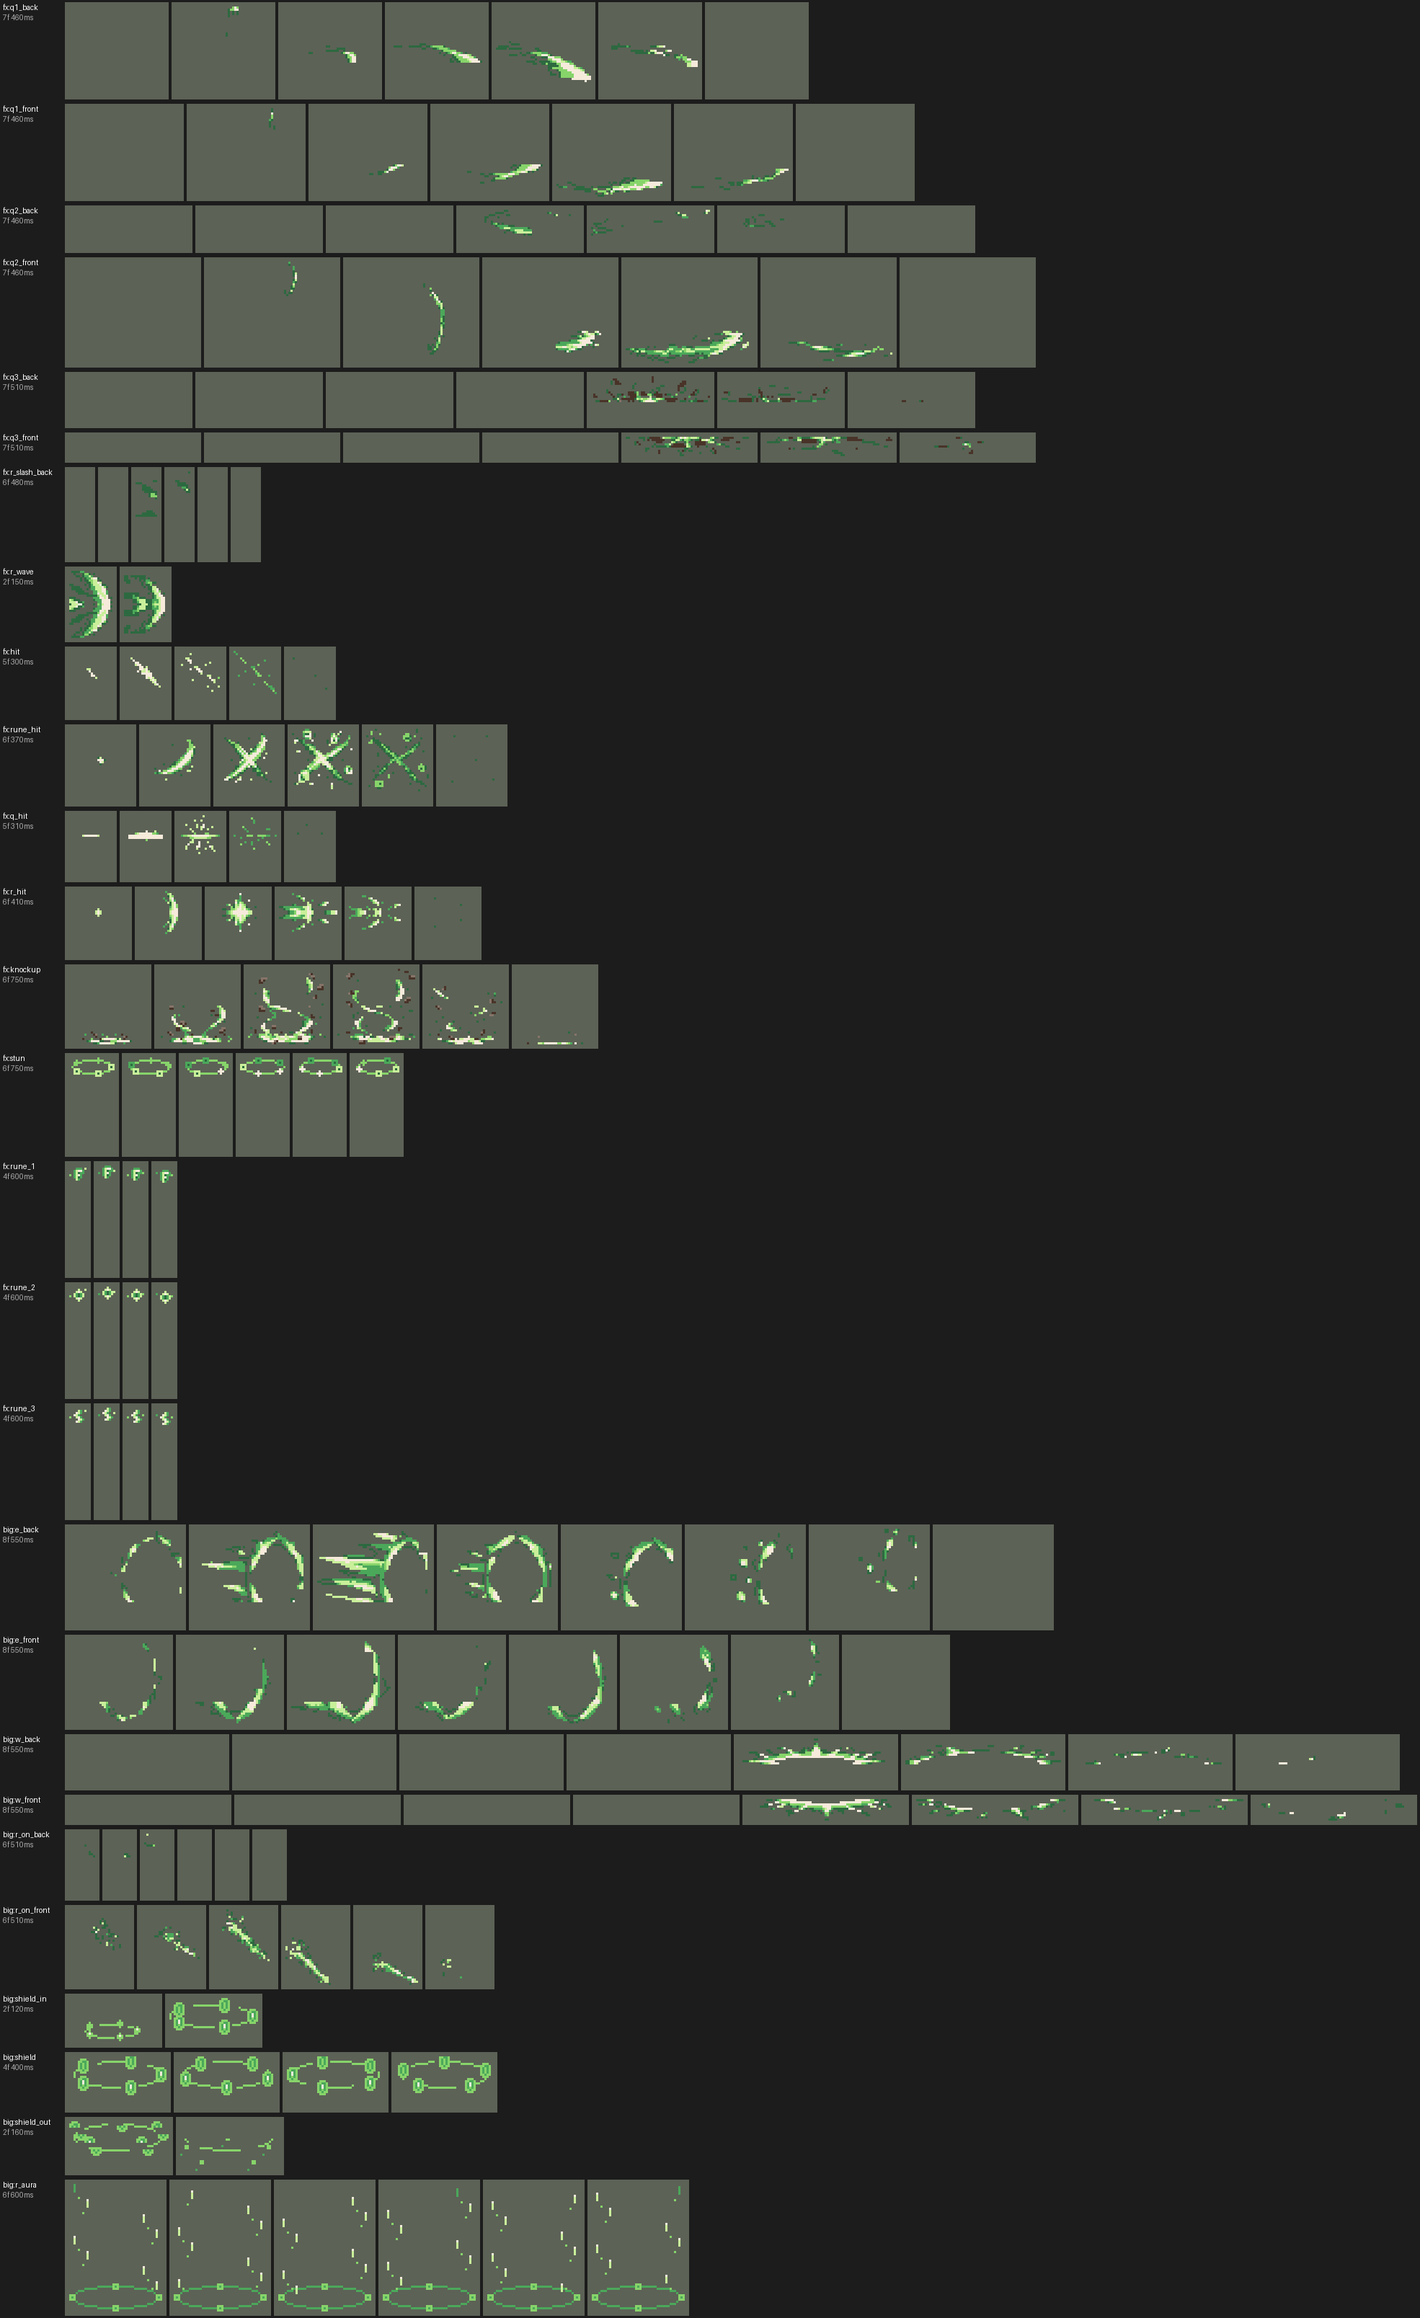
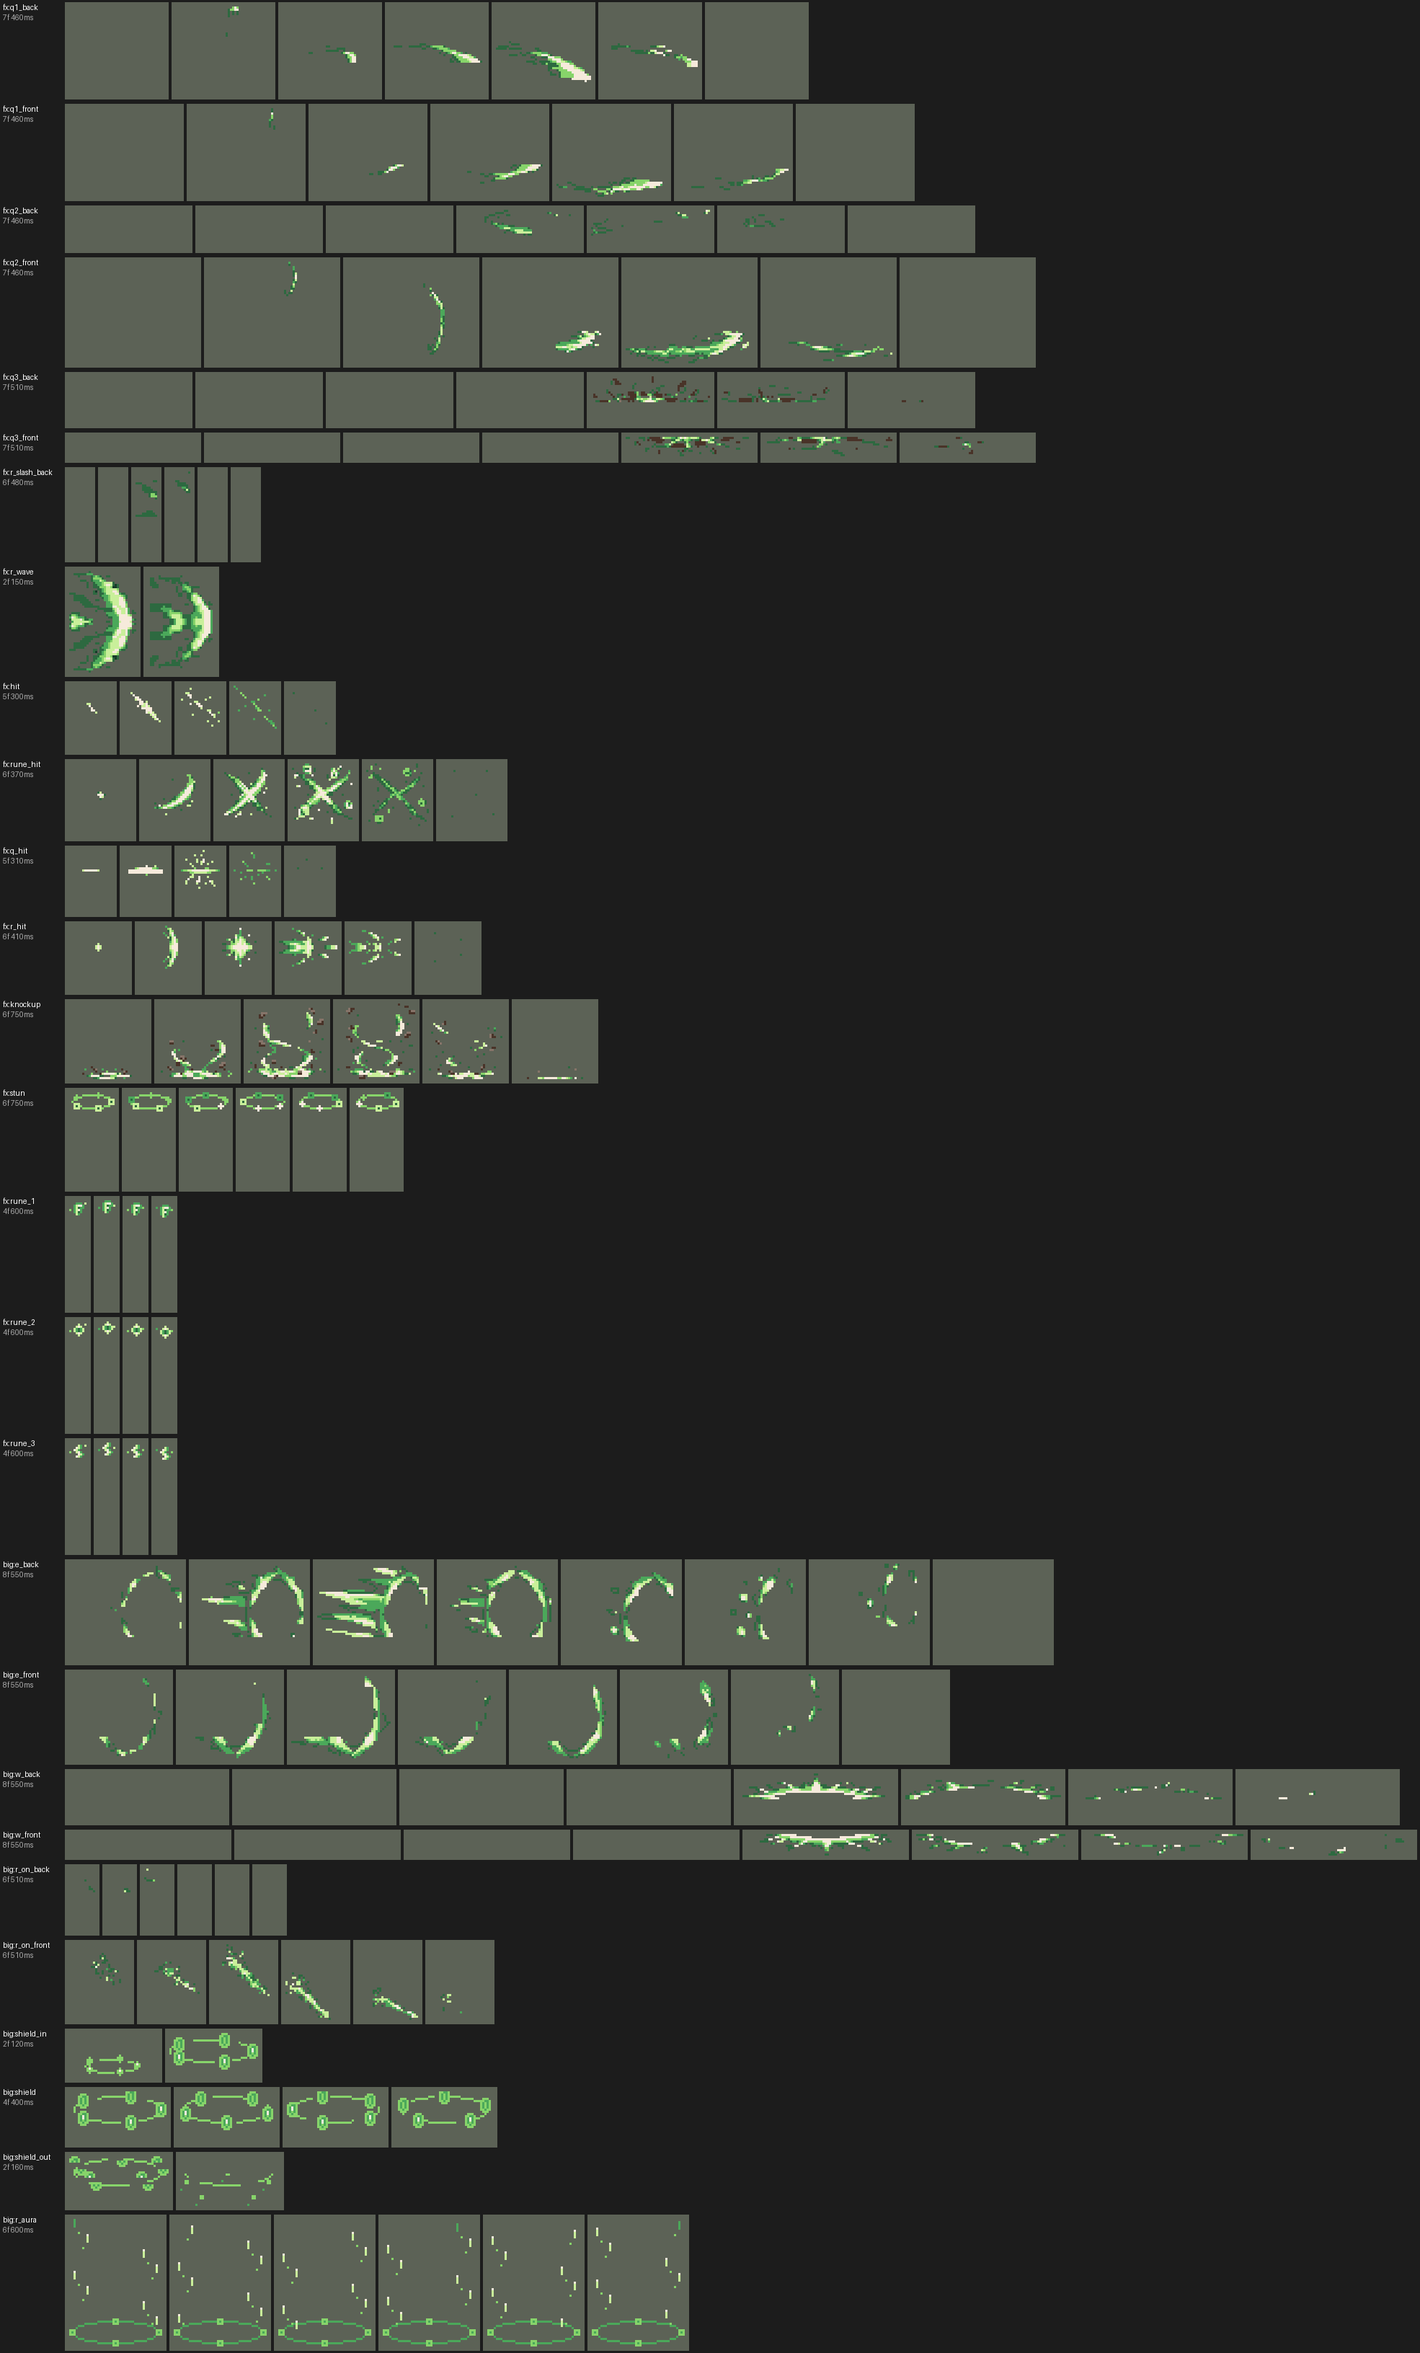
Riven: Wind Slash's flying wave 1.5 times bigger (the user's request)
"锐雯的大招效果最后放出去的波浪帮我做大一点" - the flying crescent,
r_wave, goes from 31 px tall to 46, about the band the projectile
really hits (its 16000 radius plus the target's own, some 24 px to
either side); damage and range are unchanged. import_riven.py enlarges
Codex's crescent by level sets: the six greens ordered dark to light,
the level field resized smoothly and cut back into the same greens, so
the bands keep clean edges and no pixel is stretched; the darkest green
that makes on the edge goes as in --raw, and the crescent's middle stays
where the slash drew it. Every other Riven effect frame is unchanged
(the fx sheet's cells grow from 77 to 89 px). Showcase and effects
preview re-rendered.

diff --git a/tools/art/import_riven.py b/tools/art/import_riven.py
@@ -29,6 +29,11 @@ layer (frames 3 and 4, a two-frame loop) cut round the point 15 px over the stan
 it with y_offset -15000 - so on the release tick it stands where the slash drew it (11-42 px ahead of her) and then
 flies on; made exactly symmetric about its middle row (the game turns a projectile's picture to its flight: leftward
 it is turned 180 degrees). The front layer itself is not bound (it would stay behind as a second crescent).
+The user then asked for a bigger wave ("锐雯的大招效果最后放出去的波浪帮我做大一点"): it is drawn WAVE_SCALE times
+bigger - 31 px tall -> 46, about the band the projectile really hits (its 16000 radius plus the target's own, some
+24 px to either side) - by level sets: its greens ordered dark to light as levels, the level field resized smoothly
+and cut back into the same greens, so the bands keep clean edges and no pixel is stretched; the rim that makes on
+the edge goes as in --raw, and the crescent's middle stays where the slash drew it.
 The second delivery (assets/source/riven/PROMPTS_FX2.md, the effects the first one left out) came as effects drawn
 in their own cells, each with an anchor (the manifest's `cell`, `anchor`, `ms`): --fx2 checks them the same way
 (8x blocks, alpha, the effects' palette plus Q3's two rock browns for the knock-up, the frames and times the pack
@@ -65,6 +70,8 @@ PALETTE = {RIM, NEXT, (0x4B, 0xA8, 0x5A), (0x87, 0xD4, 0x6A), (0xC9, 0xEF, 0x9A)
 SETS = {"q1": "skill", "q2": "q2", "q3": "q3", "e": "skill2", "w": "skill2", "r_on": "ult", "r_slash": "r_slash"}
 SHEETS = {"league_riven_fx": ["q1", "q2", "q3"], "league_riven_big": ["e", "w", "r_on"]}
 WAVE_LIFT = 15                  # px: the projectile's y_offset -15000 lifts its picture this far
+WAVE_SCALE = 1.5                # the flying wave drawn this much bigger than Codex's crescent (the user)
+GREENS = [RIM, NEXT, (0x4B, 0xA8, 0x5A), (0x87, 0xD4, 0x6A), (0xC9, 0xEF, 0x9A), (0xF6, 0xEA, 0xDB)]  # dark to light
 # the second delivery: sheet, where the unit's standing point is from the anchor, the shield's phases
 FX2 = {"hit": ("league_riven_fx", (0, 8)), "rune_hit": ("league_riven_fx", (0, 8)),
        "q_hit": ("league_riven_fx", (0, 8)), "r_hit": ("league_riven_fx", (0, 8)),
@@ -196,6 +203,29 @@ def symmetric(fr):
     return fr
 
 
+def enlarge(fr, k):
+    """The centred wave frame k times bigger about the crescent's middle, by level sets (see the docstring)."""
+    ys, xs = np.nonzero(fr[..., 3] > 0)
+    c = np.pad(fr[ys.min():ys.max() + 1, xs.min():xs.max() + 1], ((1, 1), (1, 1), (0, 0)))
+    lv = np.zeros(c.shape[:2], np.float32)
+    for y, x in zip(*np.nonzero(c[..., 3] > 0)):
+        col = tuple(int(v) for v in c[y, x, :3])
+        lv[y, x] = GREENS.index(col) + 1 if col in GREENS else 1
+    h, w = round(c.shape[0] * k), round(c.shape[1] * k)
+    q = np.clip(np.floor(np.asarray(Image.fromarray(lv, "F").resize((w, h), Image.BICUBIC)) + 0.5), 0, len(GREENS))
+    big = np.zeros((h, w, 4), np.uint8)
+    for i, col in enumerate(GREENS):
+        big[q == i + 1] = col + (255,)
+    big = unrim(big)
+    # the crescent's middle where it was, relative to the frame's centre (the projectile's point)
+    cy, cx = (ys.min() + ys.max()) / 2 - fr.shape[0] // 2, (xs.min() + xs.max()) / 2 - fr.shape[1] // 2
+    y0, x0 = int(round(cy - (h - 1) / 2)), int(round(cx - (w - 1) / 2))
+    r = max(abs(y0), abs(y0 + h), abs(x0), abs(x0 + w)) + 1
+    out = np.zeros((2 * r + 1, 2 * r + 1, 4), np.uint8)
+    out[r + y0:r + y0 + h, r + x0:r + x0 + w] = big
+    return symmetric(out)
+
+
 def build():
     with open(G.lp(os.path.join(NATIVE, "riven_cells.json")), encoding="utf-8") as f:
         cells = json.load(f)
@@ -212,8 +242,8 @@ def build():
     front = strip_cells("r_slash", "front", len(rows))
     fx = sheets["league_riven_fx"]
     fx["r_slash_back"] = [(G.centre_frame(c, -r["pivot"][0], -r["pivot"][1]), r["ms"]) for c, r in zip(back, rows)]
-    fx["r_wave"] = [(symmetric(G.centre_frame(front[k], -rows[k]["pivot"][0], -(rows[k]["pivot"][1] - WAVE_LIFT))),
-                     rows[k]["ms"]) for k in (2, 3)]
+    fx["r_wave"] = [(enlarge(symmetric(G.centre_frame(front[k], -rows[k]["pivot"][0], -(rows[k]["pivot"][1] - WAVE_LIFT))),
+                             WAVE_SCALE), rows[k]["ms"]) for k in (2, 3)]
     with open(G.lp(os.path.join(SRC, "riven_fx2_cells.json")), encoding="utf-8") as f:
         table = json.load(f)
     for name, (sheet, _) in FX2.items():

diff --git a/README.md b/README.md
@@ -54,7 +54,7 @@
 
 ![莫甘娜演示：走上前放 Q 暗之禁锢，弹核拖着锁链尾迹飞向德莱厄斯，禁锢锁链缠住他、脚下铺开折磨之影的焦油地；上前打两发暗影弹；德莱厄斯挣脱冲过来时她给自己套上黑暗之盾；R 灵魂镣铐的爆环扩到大招范围、锁链扣住他，他拖着锁链走近，3 秒后锁链崩断，头顶亮起眩晕法阵，他倒下](docs/preview/league_morgana_showcase.gif?v=0930c)
 
-![锐雯演示：跑进场先砍一刀（白色斜斩）、Q 折翼之舞三段：每段跳向德莱厄斯斩击，段间普攻用掉符文（交叉的符文斩，她头顶一层一块小符文），第三段跃起砸地击飞他（脚下卷起尘土和碎石）；E 勇往直前带着护盾冲过去（五块符文碎片绕着腰转），接 W 震魂怒吼眩晕他（头顶转着符文环）；两次普攻用掉两层符文；R 放逐之锋把断剑补成完整的剑，脚下亮起符文光环，用重铸的剑普攻、放 Q；盖伦走来，疾风斩的月牙剑气穿过两人，德莱厄斯倒下](docs/preview/league_riven_showcase.gif?v=0930r42)
+![锐雯演示：跑进场先砍一刀（白色斜斩）、Q 折翼之舞三段：每段跳向德莱厄斯斩击，段间普攻用掉符文（交叉的符文斩，她头顶一层一块小符文），第三段跃起砸地击飞他（脚下卷起尘土和碎石）；E 勇往直前带着护盾冲过去（五块符文碎片绕着腰转），接 W 震魂怒吼眩晕他（头顶转着符文环）；两次普攻用掉两层符文；R 放逐之锋把断剑补成完整的剑，脚下亮起符文光环，用重铸的剑普攻、放 Q；盖伦走来，疾风斩的月牙剑气穿过两人，德莱厄斯倒下](docs/preview/league_riven_showcase.gif?v=0930r46)
 
 ![贝蕾亚演示：跑进场，Q 冲头扑到德莱厄斯身上眩晕他，进入血莽（绕身的血焰）连咬，2 秒后噬击的獠牙大嘴咬下、给自己回血；E 惊吼：护壳里蓄力 1 秒，尖啸把他击退并眩晕 1 秒，他逃到后面；R 毙除：踢出的血石停在德莱厄斯身上、标记他为猎物，贝蕾亚飞过去落地炸开，命中他和前排走来的盖伦，盖伦恐惧逃出画面；彻底血狂里连咬，噬击咬死德莱厄斯](docs/preview/league_briar_showcase.gif?v=0930c)
 
@@ -1053,7 +1053,7 @@ python tools/art/preview_riven.py
   - 能量大剑的边：护脸的范围从眼睛周围的方框改成贴着头的轮廓（让开 2 格），竖着的剑左边不再被切成直边；朝下的剑尖在脚底线收尖，剑身部分保持全宽。剑插在地上的 Q3 第 4–6 帧，剑立在腿前，绿光大多被身体挡住，只露出剑的右边。
 - 能量大剑（`--blade`）：按 `riven_frames40.json` 里每帧剑的断口和剑轴，在所有像素下面画一把宽约 11 格的绿色能量剑（46 行时 13 格；剑尖伸出断口最多 14 格，按 40/46 缩小），剑身上的符文绿在能量剑范围内提亮；头周围和脚底线以下不画，开大前两帧保持断剑。
 - 导入：待机 6 帧都用造型本身，第 3–5 帧在靴筒的接缝处下沉一格呼吸（`BOB`，缩到 40 行后接缝仍在靴筒里，腿不会断开）；移动和待机按眼睛的绿色 #3E8E48 把头稳在同一列（`EYES`）；头像截取点 (−1, −38)（46 行时是 (−3, −44)）。结果 106 帧、31 色，和右边像素同色的比例 32%（原版英雄 18%–46%）。
-- 特效（`import_riven.py`）：Codex 照 oppi 的做法，把 7 组特效逐帧画在她自己的动作格上（同样的 96×96 格、站位点和帧时长），每组分成人物身后一层和身前一层（头的范围只放后层，不挡脸），6 种绿和白，Q 第三段多两种土石色。`--raw` 检查帧序、时长、站位点和交付清单一致、颜色都在色板里，再去描边：Codex 给每个图形都描了一圈最深的绿 #183A2A（Q1 边缘的 67%），特效不带描边（阿狸的特效边缘只有 1%–18% 是暗色）；边上的 #183A2A 有两个以上亮色邻格就删掉，否则换成次深的绿（细线不断），图形里面的留作阴影。每帧按那一帧的站位点切（和身体一样），在技能第一 tick 和动作一起播放、跟着她走（`CasterViewEffect`、`is_follow`），后层 z −1 在单位下面，前层 z 1 在上面。按她自己的比例画，不缩放：W 的地面爆发左右各够到 41–42 px、Q 第三段的地裂 28–39 px，正好是被打单位的站位点还能被打到的距离（`RangeEffect` 的半径 25000 / 26000 加上施法者和被打单位的碰撞半径，合起来约 17000：盖伦 E 的射程 28000，实测在相距 45 px 时就开始放；以前的英雄画的圈是不加碰撞半径的半径）。疾风斩飞出去的剑气用 Codex 自己画的月牙做（前层第 3、4 帧，在站位点上方 15 px 切，投射物 `y_offset` −15000 抬到同样高度，上下镜像成严格对称，因为游戏按飞行方向转图，放出那一 tick 正好接在画的位置上）。
+- 特效（`import_riven.py`）：Codex 照 oppi 的做法，把 7 组特效逐帧画在她自己的动作格上（同样的 96×96 格、站位点和帧时长），每组分成人物身后一层和身前一层（头的范围只放后层，不挡脸），6 种绿和白，Q 第三段多两种土石色。`--raw` 检查帧序、时长、站位点和交付清单一致、颜色都在色板里，再去描边：Codex 给每个图形都描了一圈最深的绿 #183A2A（Q1 边缘的 67%），特效不带描边（阿狸的特效边缘只有 1%–18% 是暗色）；边上的 #183A2A 有两个以上亮色邻格就删掉，否则换成次深的绿（细线不断），图形里面的留作阴影。每帧按那一帧的站位点切（和身体一样），在技能第一 tick 和动作一起播放、跟着她走（`CasterViewEffect`、`is_follow`），后层 z −1 在单位下面，前层 z 1 在上面。按她自己的比例画，不缩放：W 的地面爆发左右各够到 41–42 px、Q 第三段的地裂 28–39 px，正好是被打单位的站位点还能被打到的距离（`RangeEffect` 的半径 25000 / 26000 加上施法者和被打单位的碰撞半径，合起来约 17000：盖伦 E 的射程 28000，实测在相距 45 px 时就开始放；以前的英雄画的圈是不加碰撞半径的半径）。疾风斩飞出去的剑气用 Codex 自己画的月牙做（前层第 3、4 帧，在站位点上方 15 px 切，投射物 `y_offset` −15000 抬到同样高度，上下镜像成严格对称，因为游戏按飞行方向转图，放出那一 tick 正好接在画的位置上）。之后用户说"锐雯的大招效果最后放出去的波浪帮我做大一点"：飞出去的剑气放大 1.5 倍，从 31 px 高变成 46 px，差不多就是它真正打到的宽度（投射物半径 16000 加上目标自己的碰撞半径，两边各约 24 px），伤害和范围不变。放大的做法：把六种绿按深浅排成色阶，色阶图平滑放大后再分回原来的六种绿，色带边缘干净、不出现拉长的像素；边上冒出来的最深绿按 `--raw` 的规则去掉，月牙中心留在原来画的位置（`import_riven.py` 的 `WAVE_SCALE`）。
 - 补充的特效（`import_riven.py --fx2`，`PROMPTS_FX2.md`）：第一批没画的 9 个，Codex 按补充包给的格子和锚点画在各自的格子里（11 张图、60 帧，没有用 #183A2A，只有击飞用了两种土石色），同样检查后按锚点切：普攻、符文普攻、Q 和疾风斩的命中放在被打单位站位点上方 8 格（胸口），击飞在它的站位点（脚下尘土），眩晕的符文环在站位点上方 28 格（头顶），都跟着单位走；E 的护盾是护盾同生同灭的 buff（和莫甘娜的护盾一样，`WithShield`），出现 2 帧、循环 4 帧、碎开 2 帧；三层符文各一块符文字，放在她站位点上方 40 格、左中右间隔 8 格，有几层亮几块；大招的光环是 R buff 的循环，画在她身后（z −1）。第一批的特效逐帧没变，符文普攻的命中换成这次画的交叉符文斩（第一版是从疾风斩的剑痕里切出来的）。
 
 逐帧预览：[`docs/preview/league_riven_frames.png`](docs/preview/league_riven_frames.png)，特效：[`docs/preview/league_riven_effects.png`](docs/preview/league_riven_effects.png)。
